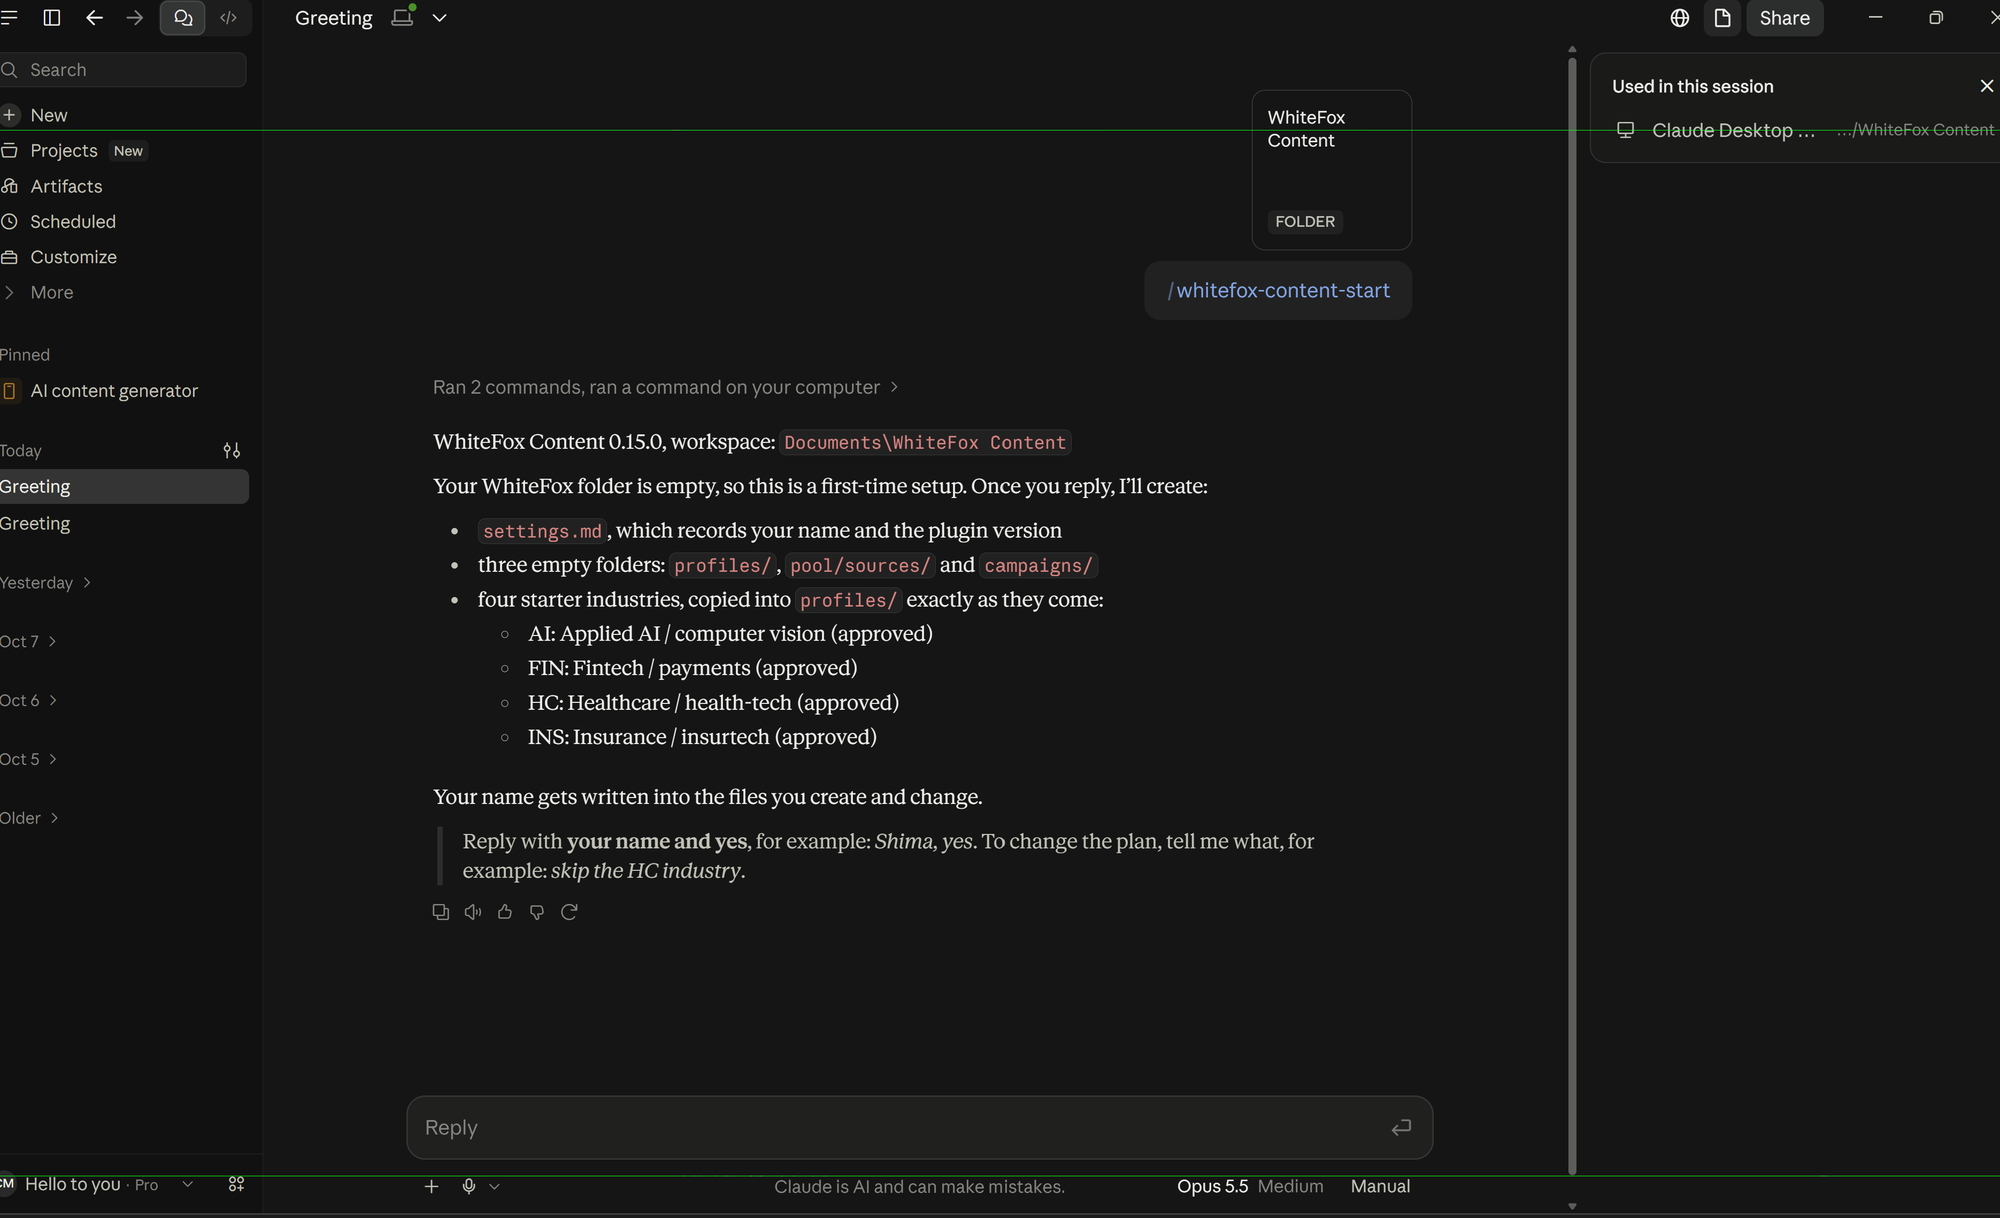
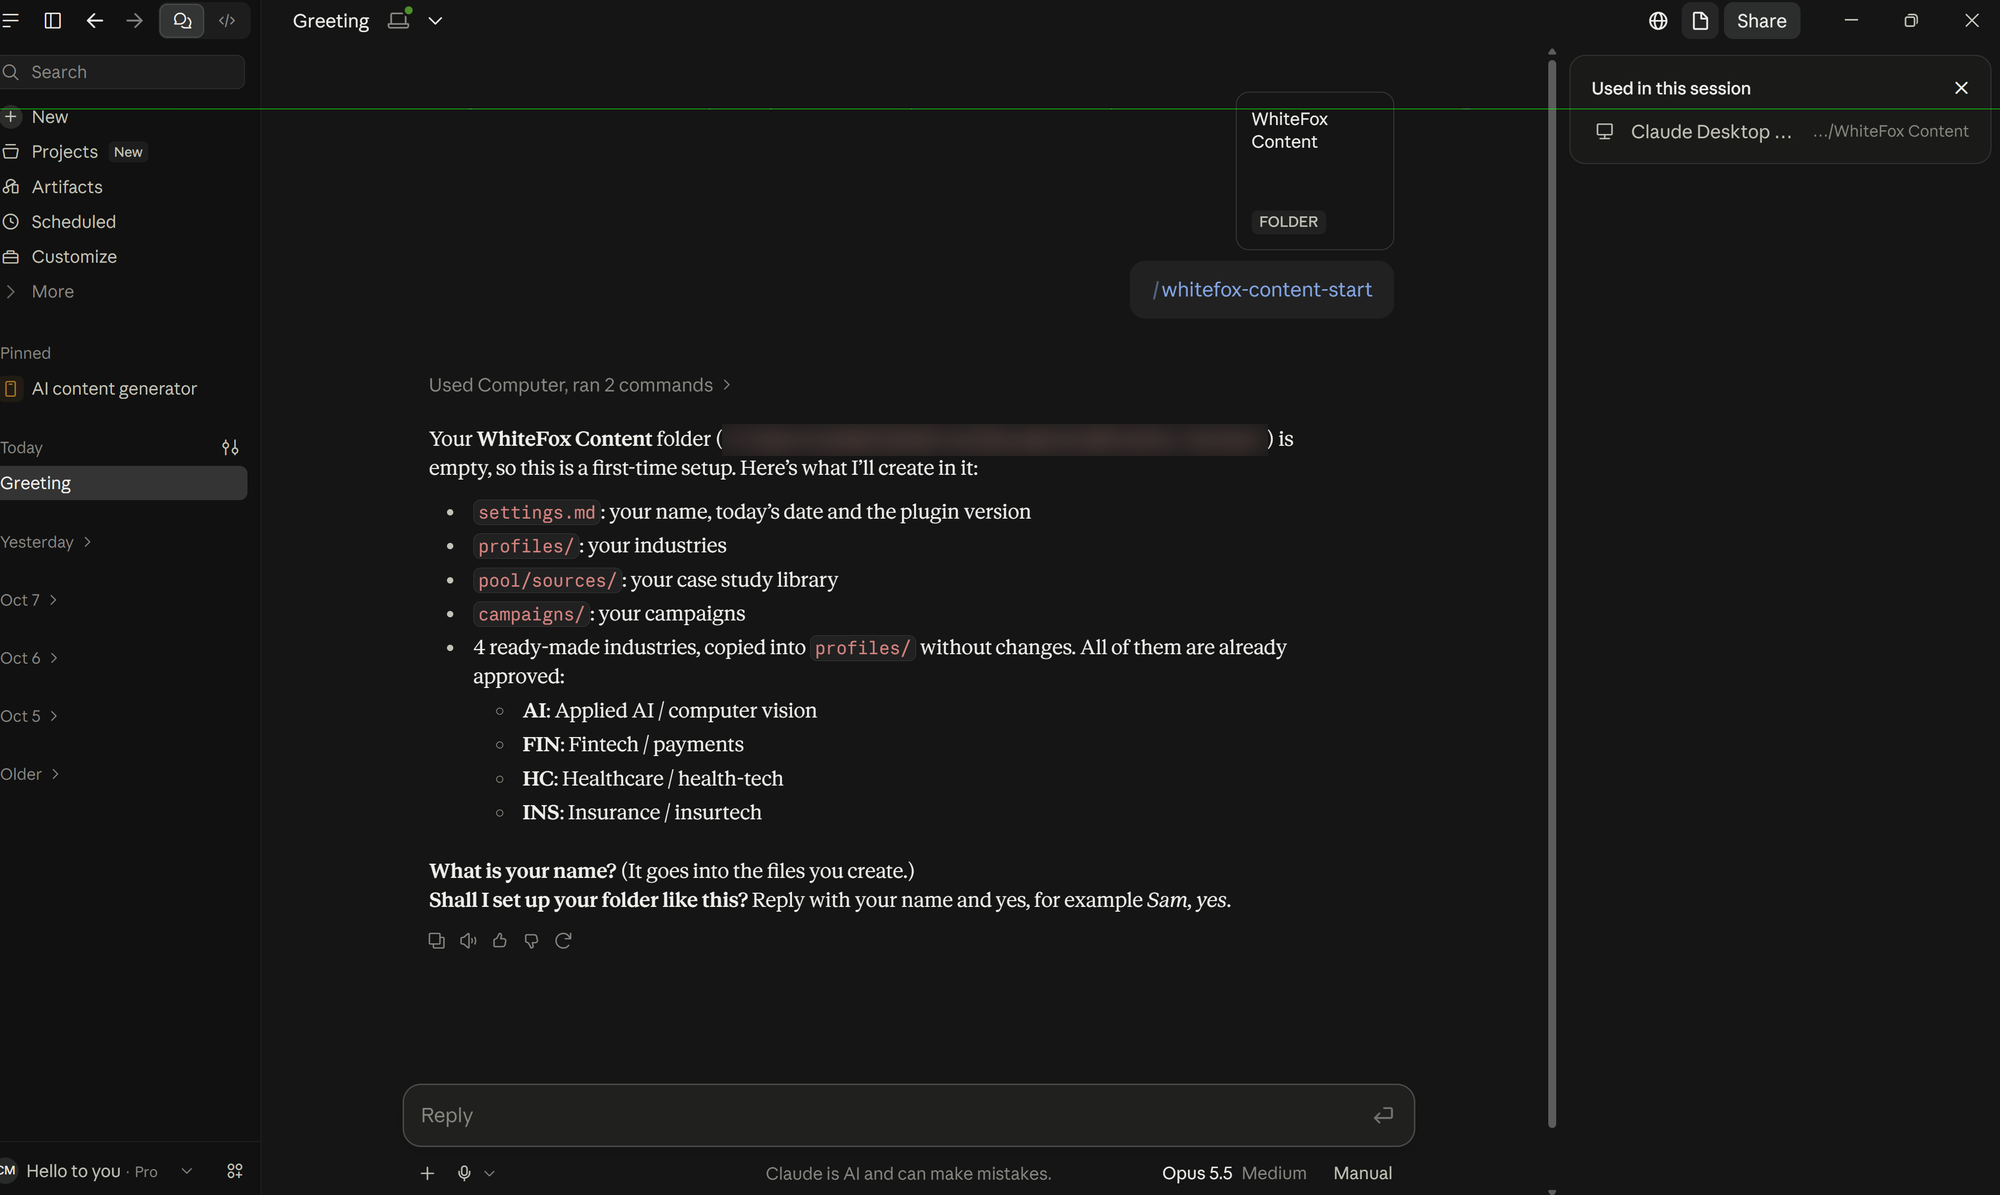
feat(dashboard): refresh the open dashboard after each milestone (0.15.2)

diff --git a/docs/user-manual.md b/docs/user-manual.md
@@ -162,9 +162,12 @@ Then type `/mcp`, select **dataforseo** and sign in with the company login.
 A campaign is one push of content for one industry, with one goal, for example "insurance
 leaders, October, systems integration".
 
-1. Type `/whitefox-content-start`. Claude shows your industries and campaigns, and offers to
-   create a campaign.
-2. Reply with the industry and the goal in one message.
+1. Type `/whitefox-content-start`. Claude shows your industries and campaigns, and the
+   dashboard opens on the right (section 9). Reply *start a new campaign*, or type
+   `/whitefox-content-campaign`.
+2. Claude asks which industry and what goal. Reply in one message, for example *FIN, start
+   conversations with fintech founders and payments product leaders in Australia about
+   building reliable real-time payments integrations*. No goal yet? Just give the industry.
 3. Claude names the campaign (for example `ins-2026-10`) and asks for its case study. Go on to
    stage 1.
 
@@ -289,7 +292,8 @@ The dashboard shows every campaign, newest first:
 - **Open** on a draft shows it on the page as it will look, with copy buttons,
 - the next actions, one of them suggested, and **+ New campaign**.
 
-The dashboard only shows; it never changes anything. To see one saved item in the chat, use
+While it is open, Claude refreshes it after each milestone (a campaign created, a review
+saved, drafts saved). The dashboard only shows; it never changes anything. To see one saved item in the chat, use
 `/whitefox-content-show`, for example `/whitefox-content-show Topic 3 ins-2026-10`.
 
 ![The dashboard](images/26-dashboard.png)
@@ -372,8 +376,8 @@ Save each image in `docs/images/` with this name:
 | `12-app-dataforseo-add.png` | Add custom connector with name and URL filled in |
 | `13-app-dataforseo-permissions.png` | DataForSEO tool permissions, three tools on and set to ask |
 | `14-code-dataforseo-mcp.png` | Claude Code `/mcp` list with claude.ai DataForSEO connected |
-| `15-start.png` | the start reply: version, workspace, industries, campaigns |
-| `16-new-campaign.png` | creating a campaign: the industry and goal reply |
+| `15-start.png` | the start reply with the dashboard open on the right |
+| `16-new-campaign.png` | /whitefox-content-campaign: the industry and goal question, with the answer typed |
 | `17-add-case-study.png` | a case study attached in the message box |
 | `18-review-deliveries.png` | review page for what we delivered |
 | `19-quotes.png` | audience quotes in the chat, with links |

diff --git a/plugins/wf-content/skills/whitefox-content-start/SKILL.md b/plugins/wf-content/skills/whitefox-content-start/SKILL.md
@@ -5,7 +5,7 @@ description: Start here for WhiteFox content work. Sets up the WhiteFox Content 
 
 # Start
 
-You are the front door of the WhiteFox content plugin, version 0.15.1. Read
+You are the front door of the WhiteFox content plugin, version 0.15.2. Read
 `../whitefox-content-guide/formats/README.md` (the workspace rules) before anything else.
 
 ## Steps built in this version
@@ -65,14 +65,14 @@ If `settings.md` does not exist in the workspace:
 3. On a name and yes, create them, then say the workspace is ready. A yes without a name: ask
    the name only.
 
-If `settings.md` exists but its `plugin` version differs from 0.15.1, update that line and say
-"Updated from <old> to 0.15.1".
+If `settings.md` exists but its `plugin` version differs from 0.15.2, update that line and say
+"Updated from <old> to 0.15.2".
 
 ## 3. Show where things stand
 
 Reply with:
 
-1. One line: "WhiteFox Content 0.15.1, workspace: <path>".
+1. One line: "WhiteFox Content 0.15.2, workspace: <path>".
 2. Only if a newer version exists (see "Checking for a newer version"), one line:
    "A newer version (<latest>) is available. To update: Claude app, Customize, Plugins,
    WhiteFox Content, the ⋯ menu, Check for updates, Update, then start a new chat. Claude
@@ -122,7 +122,7 @@ Reply with:
 
 If you can fetch web pages, fetch
 `https://raw.githubusercontent.com/whitefoxcloud/whitefox-content-plugin/main/plugins/wf-content/.claude-plugin/plugin.json`
-and read its `version`. If it is higher than 0.15.1 (compare each number in turn), show the
+and read its `version`. If it is higher than 0.15.2 (compare each number in turn), show the
 update line. If the fetch fails or you cannot fetch pages, skip the check silently; never
 delay or block the rest of `start` for it.
 

diff --git a/plugins/wf-content/skills/whitefox-content-guide/formats/README.md b/plugins/wf-content/skills/whitefox-content-guide/formats/README.md
@@ -285,6 +285,15 @@ with copy buttons; a draft without `body` falls back to copying `/whitefox-conte
 <campaign>`. Keep IDs and statuses in `details` exactly as in the files (`PAIN-03`, `active`);
 the page shows them in the user's words.
 
+### Keeping the dashboard fresh
+
+The dashboard is a snapshot: the page cannot read files. If it was shown earlier in this chat,
+show it again, rebuilt from the files exactly as above, right after each of these saves:
+a campaign created, paused, resumed or finished; a stage's review saved (deliveries and
+problems, topics, a content plan); drafts saved. Not after smaller steps. Say nothing extra
+about it beyond one line: "Dashboard updated." In Claude Code, where pages do not show, skip
+this.
+
 When a step names another step to the user, it gives the Claude app command and the Claude Code
 command in brackets, for example `/whitefox-content-check-fit` (Claude Code:
 `/wf-content:whitefox-content-check-fit`).

diff --git a/README.md b/README.md
@@ -4,7 +4,7 @@ Turns case studies into proof-backed LinkedIn posts, articles and emails, one ap
 a time. Runs in the Claude desktop app and in Claude Code, on your own Claude subscription (Pro
 or Max).
 
-Status: 0.15.1. Every step is built, grouped into three stage commands (add a case study, find
+Status: 0.15.2. Every step is built, grouped into three stage commands (add a case study, find
 topics, write) after setup with `whitefox-content-start`.
 
 The words it uses: **what we delivered** (one piece of work from a case study), **audience

diff --git a/plugins/wf-content/skills/whitefox-content-campaign/SKILL.md b/plugins/wf-content/skills/whitefox-content-campaign/SKILL.md
@@ -33,7 +33,8 @@ One question, one answer:
    warning."
 4. Reply in one message: "✓ Campaign <name> created for <industry>. Saved to
    `campaigns/<name>/campaign.md`; to rename it or change the goal, just say so." Then ask for
-   the case study:
+   the case study (first refresh the dashboard if it is open in this chat; workspace rules,
+   "Keeping the dashboard fresh"):
 
    > Next: attach the case study for <name>, paste its text, or paste its link, and I'll take
    > it from there.

diff --git a/CHANGELOG.md b/CHANGELOG.md
@@ -1,5 +1,10 @@
 # Changelog
 
+## 0.15.2
+
+- The dashboard refreshes itself in the chat after each milestone (campaign created, a stage's
+  review saved, drafts saved), instead of staying as it was when start ran.
+
 ## 0.15.1
 
 - User manual for colleagues (`docs/user-manual.md`): install, workspace folder, DataForSEO
